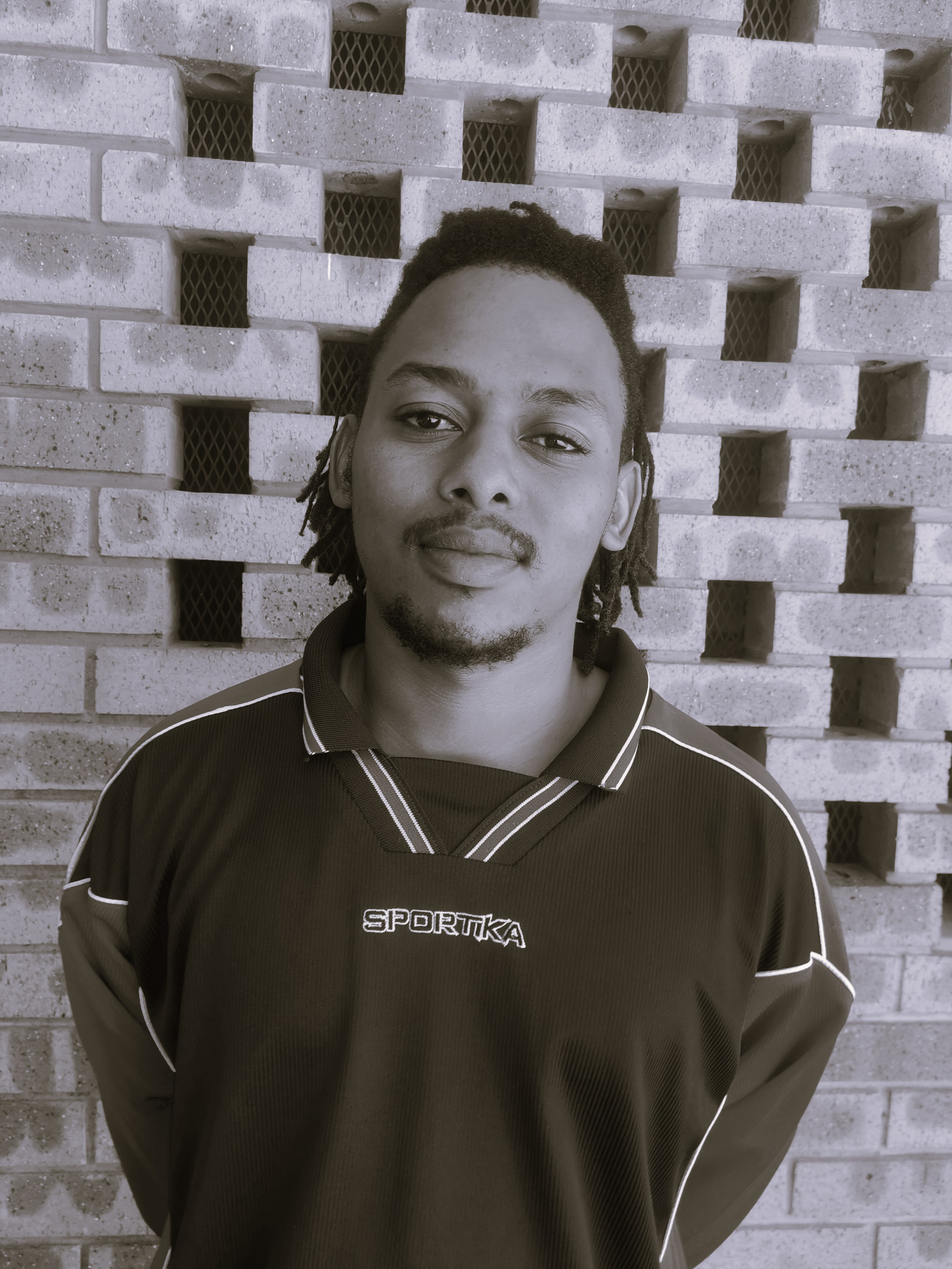
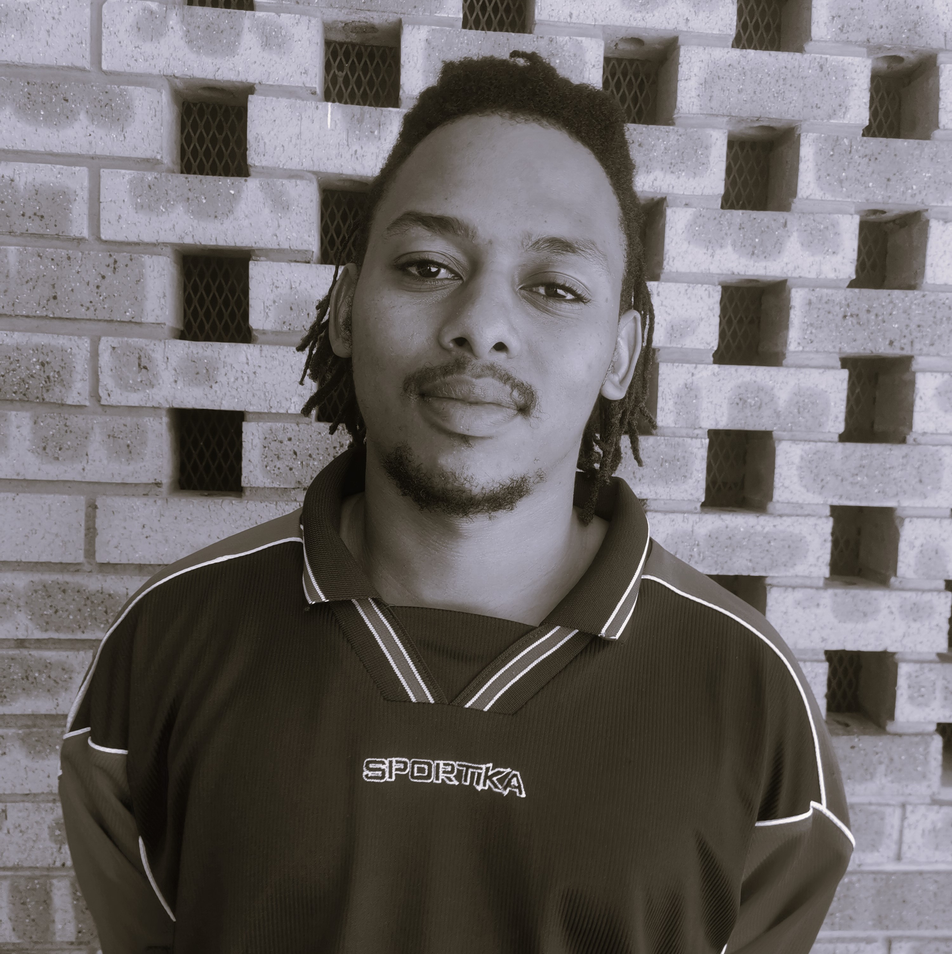
Resume8

diff --git a/intro-to-web/Resume_8.html b/intro-to-web/Resume_8.html
@@ -4,21 +4,27 @@
         <meta charset="UTF-8">
         <meta http-equiv="X-UA-Compatible" content="IE=edge">
         <meta name="viewport" content="width=device-width, initial-scale=1.0">
-        <link rel="stylesheet" type="text/css" href="css/stylesheet3.css">
+        <link rel="stylesheet" type="text/css" href="css/resume8.css">
         <title>Herman Botshelo Ngwenya </title>
     </head>
        
     <body>
     <header>
         <div class="heading">
-        <div><img src="images/images.jpg" alt="A Headshot of Herman Botshelo Ngwenya" width="320" height="320"></div>
-        <h1 style="color : #bfaba4;">Herman Botshelo Ngwenya</h1>
-        <p style="color: #bfaba4;">An introductory personal statement. </p>
+        <picture>
+            <source srcset="./images/images.jpg" media="(min-width:1000px)">
+            <source srcset="./images/images2.jpg" media="(min-width:400px)">
+            <img src="images/images.jpg" alt="Herman" width="320" height="320" style="max-width: 100%;height: auto;">
+        </picture>
+        <h1 style="color: thistle;">Herman Botshelo Ngwenya</h1>
+        <p>An introductory personal statement. </p>
         </div>
     </header>
-    <section>
-    <aside>
-        <div class="menu">
+
+<div>
+    <section class="content">
+    
+    <div class="menu">
         <h2>Menu</h2>
         <nav>
     <ul>
@@ -28,14 +34,15 @@
     </ul>
         </nav>
     </div>
-    </aside>
+    
 <article>
    <h2 id="education">Education</h2>
         <h3> Intro to web at <a target="_blank" href="https://codespace.co.za">Codespace Academy</a></h3>
         <p>Lorem ipsum dolor sit amet consectetur adipisicing elit. Reprehenderit obcaecati veniam accusantium, alias laborum sunt enim error temporibus ducimus sequi, voluptatum at tempore distinctio illum. Eligendi quam quasi vero. Velit.</p>
-
+        <br>
         <h3> Qualification 2</h3>
         <p>Lorem ipsum dolor sit amet consectetur adipisicing elit. Sit repellat, laborum odio saepe vitae earum at quam, veritatis quasi incidunt asperiores ipsam quo dignissimos, esse tempore praesentium quia. Quasi, suscipit.</p>
+        <br>
 
         <h2 id="experience">Experience</h2>
           <h3>Job 1</h3>
@@ -46,7 +53,7 @@
             <li>Magni maxime est eaque nam aliquid temporibus.</li>
             <li>Exercitationem ipsam possimus itaque.</li>
           </ul> 
-
+          <br>
         <h3>Job 2</h3>
         <ul>
             <li>Lorem ipsum dolor sit amet consectetur adipisicing elit.</li>
@@ -55,6 +62,7 @@
             <li>Aliquam neque amet earum.</li>
             <li>Eveniet maxime laborum enim eligendi ipsa provident perspiciatis.</li>
         </ul>
+        <br>
 
         <h2 id="skills">Skills</h2>
             <ul>
@@ -65,15 +73,46 @@
             </ul>
     </article>
     </section>
-        
-    <div>
-    <footer>
-            <h2>Contact Details</h2>
-            <a target="_blank" href="www.linkedin.com/in/herman-ngwenya-aba382267"> LinkedIn</a>
-    </footer>
     </div>
+    <br>
 
-        
+    <div>
+        <footer>
+            <h2>Contact Details</h2>
+        <a target="_blank" href="www.linkedin.com/in/herman-ngwenya-aba382267"> LinkedIn</a>
+        <br>
+        <div class="form-1">
+        <form action="https://formsubmit.co/hermanbngwenya@gmail.com" target="_blank" method="post">
+            <h3>Contact Me</h3>
+            <div>
+            <select name="emailsubject">
+                <option value="emailsubjects" required >Select Option---</option>
+                <option value="enquiry">Enquiry</option>
+                <option value="jobopportunity">Job Opportunity</option>
+                <option value="businessproposal">Business Proposal</option>
+                <option value="collaboration">Collaboration</option>
+                <option value="websitefeedback">Website Feedback</option>
+            </select>
+            </div>
+
+            <div>
+            <label for="email">Email:</label>
+            <input type="email" id="email" required>
+            </div>
+
+            <div>
+            <label for="number">Phone No.:</label>
+            <input type="number" id="number" name="Number" required>
+            </div>
+
+            <div>
+            <textarea name="comment" id="comment" rows="10" cols="32" optional placeholder="Optional,Comment Here..."></textarea>
+            </div>
+            
+            <input type="submit">
+        </form>
+        </div>
+ 
+    </div>     
     </body>
 </html>
-

diff --git a/intro-to-web/css/resume8.css b/intro-to-web/css/resume8.css
@@ -1,0 +1,202 @@
+/* {
+    margin: 0%;
+}*/
+
+.menu {
+    font-family: 'Segoe UI', Tahoma, Geneva, Verdana, sans-serif;
+    background-color:#736a69;
+    font-style:inherit ;
+    padding: 3%;
+    width: 150px;
+    height: 160px;
+   
+    
+    
+}
+
+.heading {
+    font-size: larger;
+    font-family: 'Franklin Gothic Medium', 'Arial Narrow', Arial, sans-serif;
+    text-align: center;
+    background: rgba(255, 255, 255, 0.037) url(../images/pexels.jpg);
+    background-size: cover;
+    background-repeat: no-repeat;
+    padding-bottom: 5% ;
+    padding-top: 5%;
+}
+
+a { 
+    color: white;
+    font-style: oblique;
+}
+
+img { 
+    text-align: center;
+    border-radius:50%;
+    border-color: #bfaba4;
+    border-style : solid;
+    border-width: 6px;
+    left: 2px;
+    top: 260px;
+}
+
+body {
+    font-family: 'Franklin Gothic Medium', 'Arial Narrow', Arial, sans-serif;
+    background-color:#dac4bd ;
+    margin: 0%;
+
+  
+}
+
+footer{ 
+    background-color:  #222222;
+    padding-top: 2%;
+    padding-bottom: 1%;
+    margin-bottom: 3%;
+    margin-top: 2%;
+    padding-left: 3%; 
+
+
+}
+
+article {
+    margin-left: 7%;
+    margin-right: 7%;  
+    margin-top: 4%;
+
+}
+
+h2 {
+    font-variant-caps: titling-caps;
+    font-size: xx-large;
+    color: #bfaba4;
+    background-color: #222222;
+    padding-left: 1%;
+    margin-right: 20%;
+}
+
+
+ul {
+    color: whitesmoke;
+}
+
+h3 {
+    color: whitesmoke;
+}
+
+p {
+    color: whitesmoke;
+}
+
+.content {
+    display: flex;
+    flex-direction: row;
+}
+
+label {
+    display: inline-block;
+    width: 70px;
+    margin: 6px;
+}
+
+.form-1 {
+    margin: 25px;
+    padding: 20px;
+    justify-content: center;
+    align-items: center;
+    background-color: #736a69;
+    width: 300px;
+}
+
+.h2-f {
+    text-align: center;
+
+}
+
+form {
+    margin-left: 25px;
+}
+
+/*devices smaller than 600px*/
+@media screen and (min-width:300px) {
+    body {font-size: 10px;}
+
+    .menu {
+        height: fit-content;
+    }
+    
+    h2 { 
+        font-size: small;
+     }
+     img { 
+        width: 20%;
+        height: auto;
+
+     }
+
+     .form-1 {
+        width: fit-content;
+        height: fit-content;
+     }
+    
+}
+
+/*small devices (portrait tablets and large phones,600px and up)*/
+ @media screen and (min-width: 600px) {
+    body {background-color: #bfaba4;
+        font-size: 15px; }
+
+    h2 { font-size: medium;}   
+    
+    img {
+        width: 20%;
+        height:auto;
+    }
+   
+    .form-1{
+        width: fit-content;
+        height: fit-content;
+    }
+ }
+
+ /*medium devices (landscape tablets, 768px and up)*/
+ @media screen and (min-width: 768px) {
+    body { background-color: #736a69;
+        font-size: 20px;
+    }
+    h2 {font-size: large;
+    }
+    .menu { 
+        background-color: #dac4bd;
+    }
+    img {
+        width: 20%;
+        height: auto;
+    }
+
+    .form-1{
+        width: fit-content;
+        height: fit-content;
+    }
+ }
+
+ /*large devices (laptops/desktops, 992px and up)*/
+ @media screen and (min-width: 992px) {
+    body { background-color:#504748;
+        font-size: 22px;
+    }
+    h2 { 
+        font-size: larger;
+    }
+    .menu { background-color:#736a69;}
+    
+    img {
+        width: 20%;
+        height:auto;
+    }
+
+    .form-1{
+        width: fit-content;
+        height: fit-content;
+    }
+ }

diff --git a/intro-to-web/Resume7-2.html b/intro-to-web/Resume7-2.html
@@ -39,7 +39,7 @@
    <h2 id="education">Education</h2>
         <h3> Intro to web at <a target="_blank" href="https://codespace.co.za">Codespace Academy</a></h3>
         <p>Lorem ipsum dolor sit amet consectetur adipisicing elit. Reprehenderit obcaecati veniam accusantium, alias laborum sunt enim error temporibus ducimus sequi, voluptatum at tempore distinctio illum. Eligendi quam quasi vero. Velit.</p>
-
+        <br>
         <h3> Qualification 2</h3>
         <p>Lorem ipsum dolor sit amet consectetur adipisicing elit. Sit repellat, laborum odio saepe vitae earum at quam, veritatis quasi incidunt asperiores ipsam quo dignissimos, esse tempore praesentium quia. Quasi, suscipit.</p>
         <br>
@@ -53,7 +53,7 @@
             <li>Magni maxime est eaque nam aliquid temporibus.</li>
             <li>Exercitationem ipsam possimus itaque.</li>
           </ul> 
-
+          <br>
         <h3>Job 2</h3>
         <ul>
             <li>Lorem ipsum dolor sit amet consectetur adipisicing elit.</li>
@@ -79,7 +79,7 @@
     <div>
         <footer>
             <h2>Contact Details</h2>
-        <p><a target="_blank" href="www.linkedin.com/in/herman-ngwenya-aba382267"> LinkedIn</a></p>
+            <a target="_blank" href="www.linkedin.com/in/herman-ngwenya-aba382267"> LinkedIn</a>
         <br>
         <div class="form-1">
         <form action="https://formsubmit.co/hermanbngwenya@gmail.com" target="_blank" method="post">

diff --git a/intro-to-web/Resume7-1.html b/intro-to-web/Resume7-1.html
@@ -70,7 +70,7 @@
     <div>
     <footer>
             <h2>Contact Details</h2>
-        <p><a target="_blank" href="www.linkedin.com/in/herman-ngwenya-aba382267"> LinkedIn</a></p>
+            <a target="_blank" href="www.linkedin.com/in/herman-ngwenya-aba382267"> LinkedIn</a>
         <br>
         <form action="https://formsubmit.co/hermanbngwenya@gmail.com" target="_blank" method="post">
             <label for="contactme">Contact Me</label>
